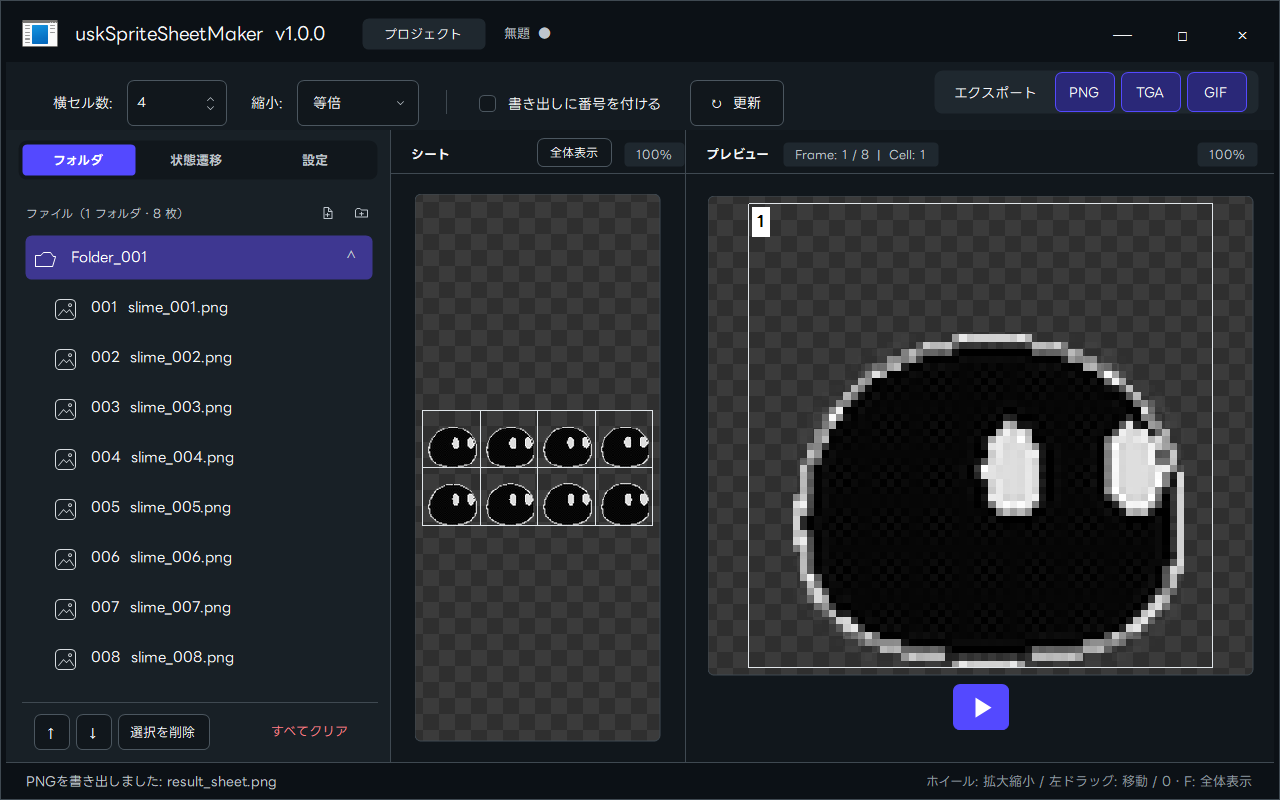
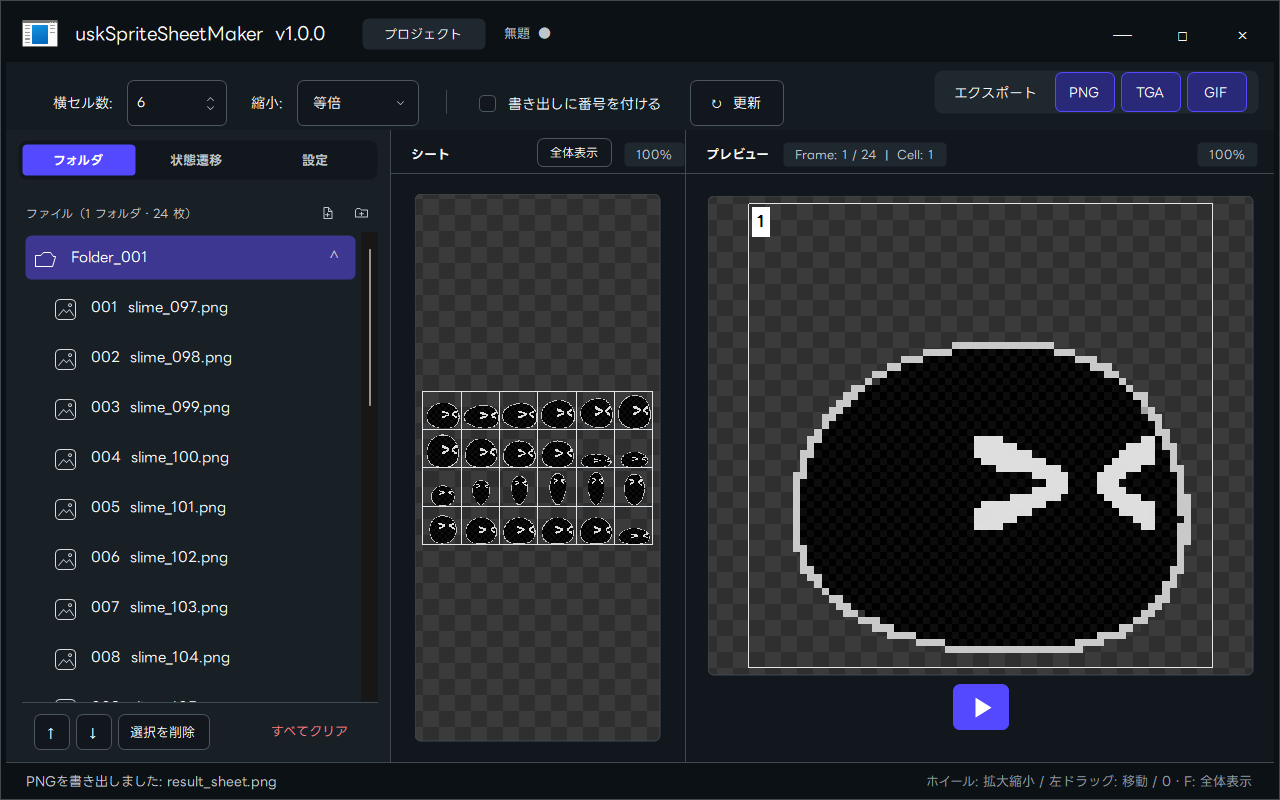
Usage guide: use frames 97-120 (more expressive eye variety) instead of the first 8

diff --git a/README.md b/README.md
@@ -19,9 +19,9 @@
 
 | 3. 横セル数を調整 | 4. PNGで書き出し |
 | --- | --- |
-| ![横セル数を4に変更した画面](docs/images/guide/03_columns.png) | ![書き出し完了の画面](docs/images/guide/04_exported.png) |
+| ![横セル数を6に変更した画面](docs/images/guide/03_columns.png) | ![書き出し完了の画面](docs/images/guide/04_exported.png) |
 
-**できあがったシート**
+**できあがったシート**（わかりやすいよう2倍に拡大表示。実際の出力は384×256px・透過PNG）
 
 ![出来上がったスプライトシート](docs/images/guide/05_result.png)
 
